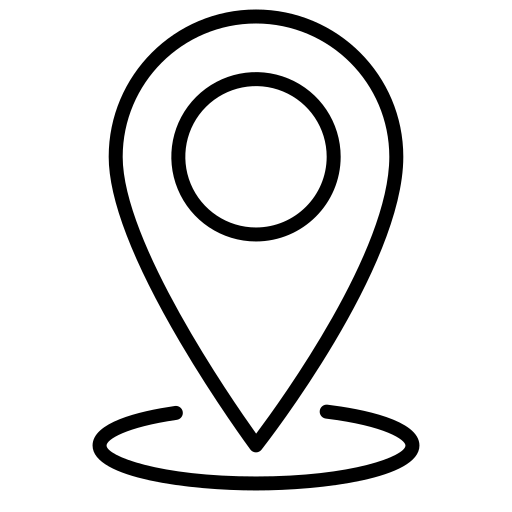
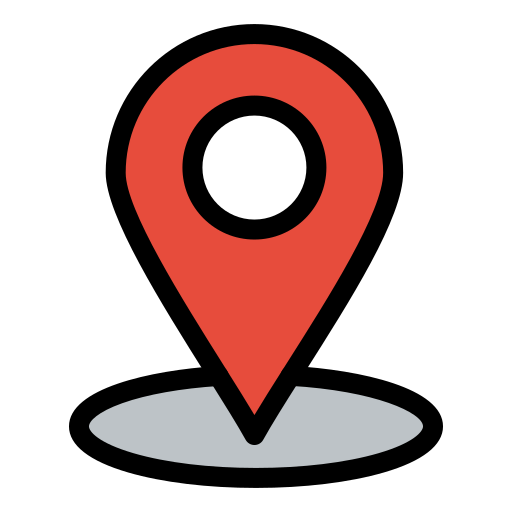
Mejoramiento Front
-Mejoramiento de Slogan de pagina de inicio.
-Creacion de pagina "Access Denied" la cual se refleja si se intenta acceder a una pagina sin ingresar con un usuario. -Mejoramiento de icono de mapa en la pagina de registro.

diff --git a/frontend/src/components/AccessDenied.css b/frontend/src/components/AccessDenied.css
@@ -1,0 +1,172 @@
+body {
+    background-color: black;
+    font-family: Arial, Helvetica, sans-serif;
+    background-image: url("../imagenes/fondo.svg");
+    background-repeat: no-repeat;
+    background-size: cover;
+  }
+  
+  .home-page {
+    padding: 20px;
+    max-width: 1200px;
+    margin: 0 auto;
+  }
+  
+  .home-page-content {
+    display: flex;
+    justify-content: space-between;
+    background-color: rgba(
+      47,
+      134,
+      166,
+      0.6
+    ); /* Color de fondo con transparencia */
+    backdrop-filter: blur(5px); /* Efecto de desenfoque */
+    border-radius: 10px;
+  }
+  
+  .home-page-subtitle {
+    flex-basis: 50%;
+    padding: 20px;
+    color: white;
+  }
+  
+  .home-page-subtitle h2 {
+    font-size: 46px;
+    font-weight: bold;
+  }
+  
+  .home-page-subtitle p {
+    font-size: 16px;
+    margin-top: 10px;
+  }
+  
+  .home-page-carousel {
+    flex-basis: 50%;
+    padding: 20px;
+  }
+  
+  .home-page-carousel .carousel .slider-wrapper .slider .slide {
+    position: relative;
+  }
+  
+  .home-page-carousel .carousel .slider-wrapper .slider .slide img {
+    width: 100%;
+    height: 300px; /* Establece la altura deseada para todas las imágenes */
+    object-fit: cover;
+    box-shadow: 0 0 10px rgba(0, 0, 0, 0.5);
+    border: 0px solid #ccc;
+    border-radius: 20px;
+  }
+  .carousel .carousel-status {
+    display: none;
+    position: absolute;
+    top: 0;
+    right: 0;
+    padding: 5px;
+    font-size: 10px;
+    text-shadow: 1px 1px 1px rgba(0, 0, 0, 0.9);
+    color: #fff;
+  }
+  .part2 {
+    text-align: center;
+    color: #fff;
+  }
+  .p1 {
+    font-size: 40px;
+    font-weight: bold;
+    margin-bottom: 10px;
+  }
+  
+  .RegistroHome {
+    height: 50px;
+    width: 170px;
+    background: linear-gradient(45deg, orange, #ff8c00);
+    color: white;
+    border-radius: 5px;
+    padding: 10px 20px;
+    box-shadow: 0px 2px 4px rgba(0, 0, 0, 0.4);
+    transition: transform 0.3s ease, box-shadow 0.3s ease;
+    border-width: 0px;
+    top: 80%;
+    font-size: 19px;
+    margin: 5px;
+    padding: 5px;
+  }
+  
+  .paragraphs-container,
+  .paragraph {
+    /* ...resto de estilos */
+    padding: 1em; /* Añade un poco de relleno para espacio */
+  }
+  
+  .RegistroHome:hover {
+    transform: scale(1.3);
+    box-shadow: 0px 4px 8px rgba(0, 0, 0, 0.4);
+  }
+  
+  .paragraphs-container {
+    display: flex;
+    justify-content: space-between;
+  }
+  
+  .paragraph {
+    align-items: center;
+    margin-bottom: 20px;
+    color: #fff;
+    margin: 10px 10px 0px 100px;
+    background: rgba(47, 134, 166, 0.6);
+    border-radius: 20px;
+    text-align: center;
+  }
+  
+  .paragraph img {
+    width: 150px; /* Ajusta el tamaño de la imagen según tus necesidades */
+    height: 150px;
+    margin-right: 20px; /* Espacio entre la imagen y el texto */
+  }
+  
+  .paragraph p {
+    flex-grow: 1; /* Permite que el texto ocupe todo el espacio restante */
+  }
+  
+  @media screen and (max-width: 768px) {
+    .home-page-content {
+      flex-direction: column;
+      align-items: center;
+    }
+  
+    .home-page-subtitle,
+    .home-page-carousel {
+      flex-basis: 100%;
+    }
+  
+    .paragraphs-container {
+      flex-direction: column;
+    }
+  
+    .paragraph img {
+      max-width: 100%; /* Limita el tamaño máximo de la imagen al ancho del contenedor */
+      height: auto; /* Ajusta la altura automáticamente para mantener la proporción */
+      margin-right: 0;
+      margin-bottom: 10px;
+    }
+  
+    /* Si deseas ajustar el tamaño de fuente del párrafo en pantallas más pequeñas, puedes agregar esto: */
+    .paragraph p {
+      font-size: 14px; /* Ajusta el tamaño de fuente según tus necesidades */
+    }
+  
+    /* Si deseas ajustar los márgenes en pantallas más pequeñas, puedes agregar esto: */
+    .paragraph {
+      margin: 10px 5px; /* Ajusta los márgenes superior e inferior y los márgenes laterales */
+    }
+  
+    /* Si deseas centrar el botón en pantallas más pequeñas, puedes agregar esto: */
+    .RegistroHome {
+      margin-top: 20px;
+      top: initial;
+      margin: 10px auto; /* Centra horizontalmente el botón */
+    }
+  }
+  

diff --git a/frontend/src/components/AccessDenied.js b/frontend/src/components/AccessDenied.js
@@ -1,0 +1,40 @@
+import React from 'react';
+import { Link } from 'react-router-dom';
+import { Carousel } from 'react-responsive-carousel';
+import 'react-responsive-carousel/lib/styles/carousel.min.css';
+import './HomePage.css';
+import image1 from '../imagenes/denegado.png'
+function HomePage() {
+  const images = [
+    require('../imagenes/agr3.jpg'),
+    require('../imagenes/agr2.jpg'),
+    require('../imagenes/agr5.jpg'),
+    require('../imagenes/agr4.jpg'),
+    require('../imagenes/agr1.jpg'),
+  ];
+
+  return (
+    <div className="home-page">
+
+      <div className='part2'>
+        <p className='p1'>Acceso Denegado</p>
+        <p className= 'p2'>No puedes acceder a esa pagina, ya que el rol que cumples tiene restringido ciertos lugares.</p>
+        <p className= 'p2'>Gracias por tu comprensión</p>
+        <img src={image1} alt="Imagen 1" />
+      </div>
+
+      <div className="home-page-subtitle">
+          <center>
+          <Link to="/registro">
+          <button className='RegistroHome'>Registro</button>
+        </Link>
+        <Link to="/Login">
+          <button className='RegistroHome'>Iniciar Sesion</button>
+        </Link>
+        </center>
+        </div>
+    </div>
+  );
+}
+
+export default HomePage;

diff --git a/frontend/src/components/HomePage.js b/frontend/src/components/HomePage.js
@@ -20,8 +20,9 @@ function HomePage() {
       <div className="home-page-content">
         <div className="home-page-subtitle">
           <center>
-          <h3>Productos Agrícolas 100% Naturales y Frescos</h3>
-          <p>Desde la cosecha de ingredientes frescos hasta su hábil transformación en manos expertas en la cocina, nos adentramos en un viaje que nos sumerge en el corazón de la gastronomía. Este recorrido culinario nos lleva a explorar un mundo de sabores únicos, donde cada ingrediente natural se convierte en una puerta hacia un universo de posibilidades culinarias. Desde la recolección hasta el plato, este viaje culinario es un tributo a la cocina artesanal, donde la pasión y la destreza se unen para encantar nuestros paladares y enriquecer nuestras vidas.</p>
+          <h3>Prowess Agrícola</h3>
+          <h4>Productos Agrícolas 100% Naturales y Frescos</h4>
+          <h4>Nutriendo tu vida, del campo a  tu mesa.</h4>
           <Link to="/registro">
           <button className='RegistroHome'>Registro</button>
         </Link>

diff --git a/frontend/src/App.js b/frontend/src/App.js
@@ -16,6 +16,7 @@ import CategoriesPage from './components/CategoriesPage';
 import SaleDetailsPage from './components/SaleDetailsPage';
 import SalesPage from './components/SalesPage';
 import { checkToken } from './services/api';
+import AccessDenied from './components/AccessDenied';
 
 function App() {
   const [isLoggedIn, setIsLoggedIn] = useState(false);
@@ -84,6 +85,7 @@ function App() {
         <Route path="/login" element={<Login setToken={setToken} setIsLoggedIn={setIsLoggedIn}/>} />
         <Route path="/registro" element={<Register />} />
         <Route path="/categories" element={<CategoriesPage />} />
+        <Route path="/AccessDenied" element={<AccessDenied />} />
       </Routes>
       <Footer />
     </Router>

diff --git a/frontend/src/components/Register.js b/frontend/src/components/Register.js
@@ -264,7 +264,7 @@ function Register() {
             <input
               className="register-input"
               type="text"
-              placeholder="tipo Asosiacion"
+              placeholder="Tipo de Asosiacion"
               value={additionalField1}
               onChange={(e) => setAdditionalField1(e.target.value)}
               required
